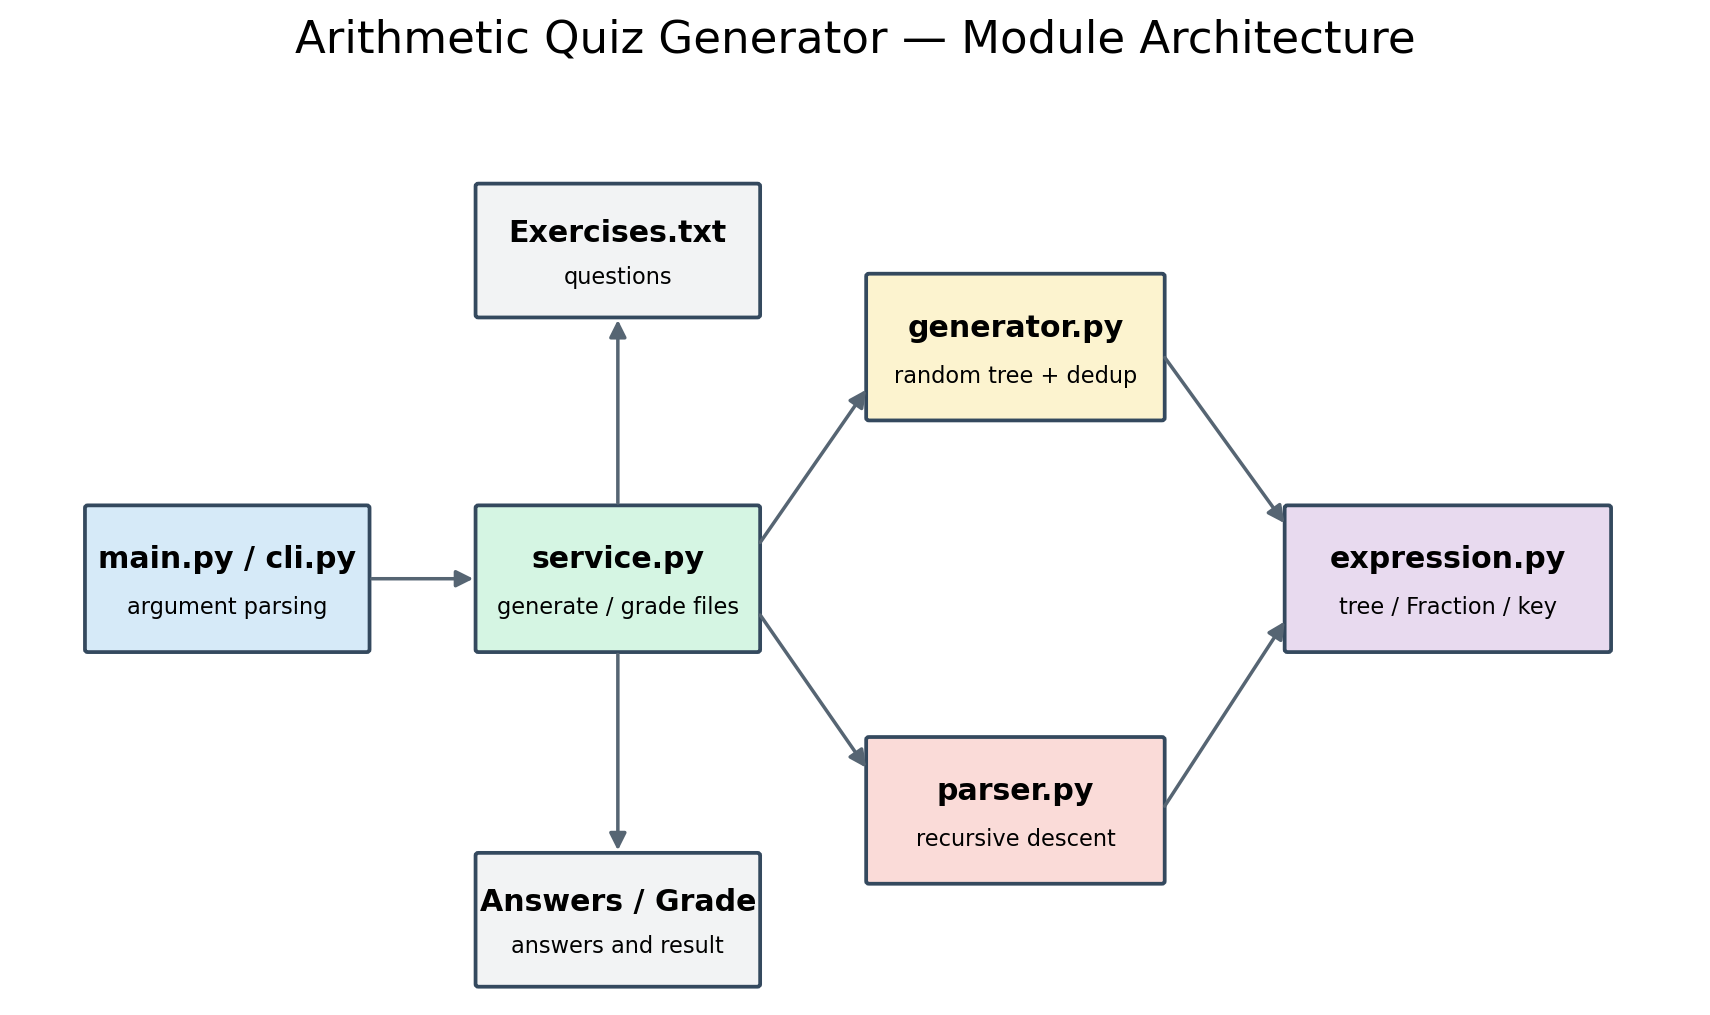
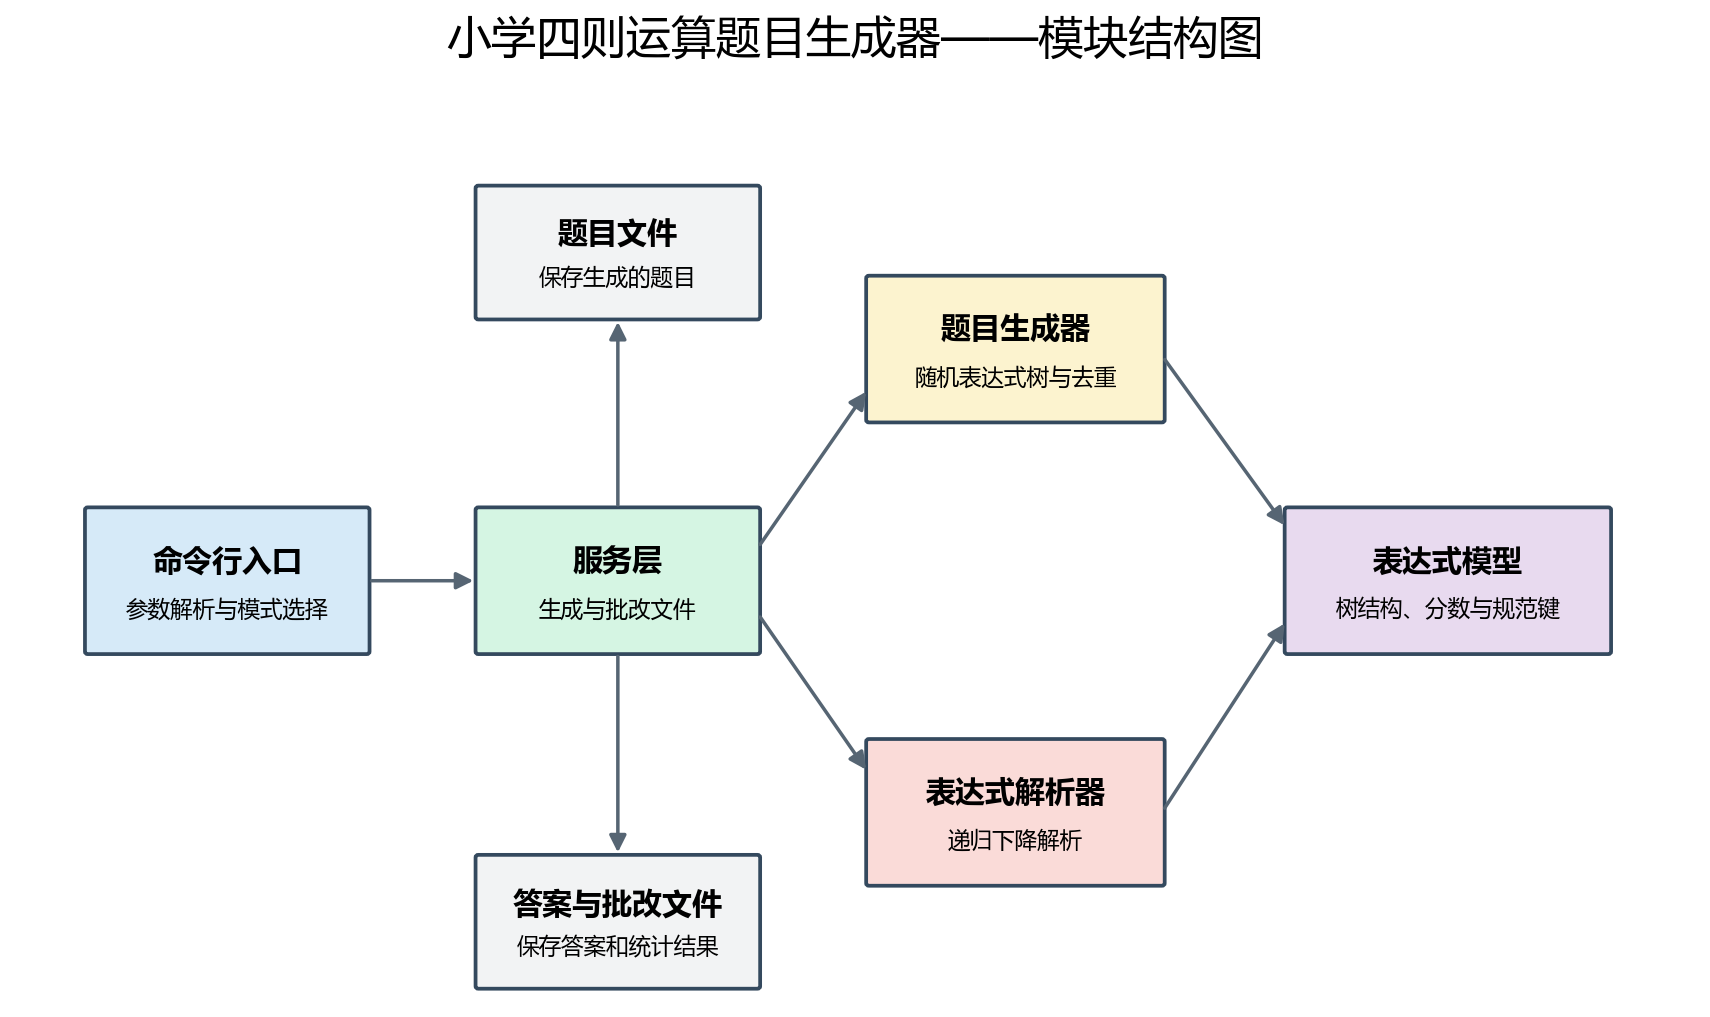
docs: localize module architecture diagram

diff --git a/pair-arithmetic-quiz/scripts/design_diagram.py b/pair-arithmetic-quiz/scripts/design_diagram.py
@@ -7,6 +7,9 @@ from pathlib import Path
 import matplotlib.pyplot as plt
 from matplotlib.patches import FancyArrowPatch, FancyBboxPatch
 
+plt.rcParams["font.sans-serif"] = ["Microsoft YaHei", "SimHei", "Arial Unicode MS"]
+plt.rcParams["axes.unicode_minus"] = False
+
 
 def box(axis, x, y, width, height, title, detail, color):
     patch = FancyBboxPatch(
@@ -29,13 +32,13 @@ def main() -> None:
     axis.set_ylim(0, 7)
     axis.axis("off")
 
-    box(axis, 0.5, 2.7, 2.0, 1.1, "main.py / cli.py", "argument parsing", "#D6EAF8")
-    box(axis, 3.3, 2.7, 2.0, 1.1, "service.py", "generate / grade files", "#D5F5E3")
-    box(axis, 6.1, 4.5, 2.1, 1.1, "generator.py", "random tree + dedup", "#FCF3CF")
-    box(axis, 6.1, 0.9, 2.1, 1.1, "parser.py", "recursive descent", "#FADBD8")
-    box(axis, 9.1, 2.7, 2.3, 1.1, "expression.py", "tree / Fraction / key", "#E8DAEF")
-    box(axis, 3.3, 5.3, 2.0, 1.0, "Exercises.txt", "questions", "#F2F3F4")
-    box(axis, 3.3, 0.1, 2.0, 1.0, "Answers / Grade", "answers and result", "#F2F3F4")
+    box(axis, 0.5, 2.7, 2.0, 1.1, "命令行入口", "参数解析与模式选择", "#D6EAF8")
+    box(axis, 3.3, 2.7, 2.0, 1.1, "服务层", "生成与批改文件", "#D5F5E3")
+    box(axis, 6.1, 4.5, 2.1, 1.1, "题目生成器", "随机表达式树与去重", "#FCF3CF")
+    box(axis, 6.1, 0.9, 2.1, 1.1, "表达式解析器", "递归下降解析", "#FADBD8")
+    box(axis, 9.1, 2.7, 2.3, 1.1, "表达式模型", "树结构、分数与规范键", "#E8DAEF")
+    box(axis, 3.3, 5.3, 2.0, 1.0, "题目文件", "保存生成的题目", "#F2F3F4")
+    box(axis, 3.3, 0.1, 2.0, 1.0, "答案与批改文件", "保存答案和统计结果", "#F2F3F4")
 
     arrow(axis, (2.5, 3.25), (3.3, 3.25))
     arrow(axis, (5.3, 3.5), (6.1, 4.75))
@@ -45,7 +48,7 @@ def main() -> None:
     arrow(axis, (4.3, 3.8), (4.3, 5.3))
     arrow(axis, (4.3, 2.7), (4.3, 1.1))
 
-    axis.set_title("Arithmetic Quiz Generator — Module Architecture", fontsize=18, pad=18)
+    axis.set_title("小学四则运算题目生成器——模块结构图", fontsize=18, pad=18)
     output_directory = Path("blog_assets")
     output_directory.mkdir(exist_ok=True)
     output_path = output_directory / "design_architecture.png"
